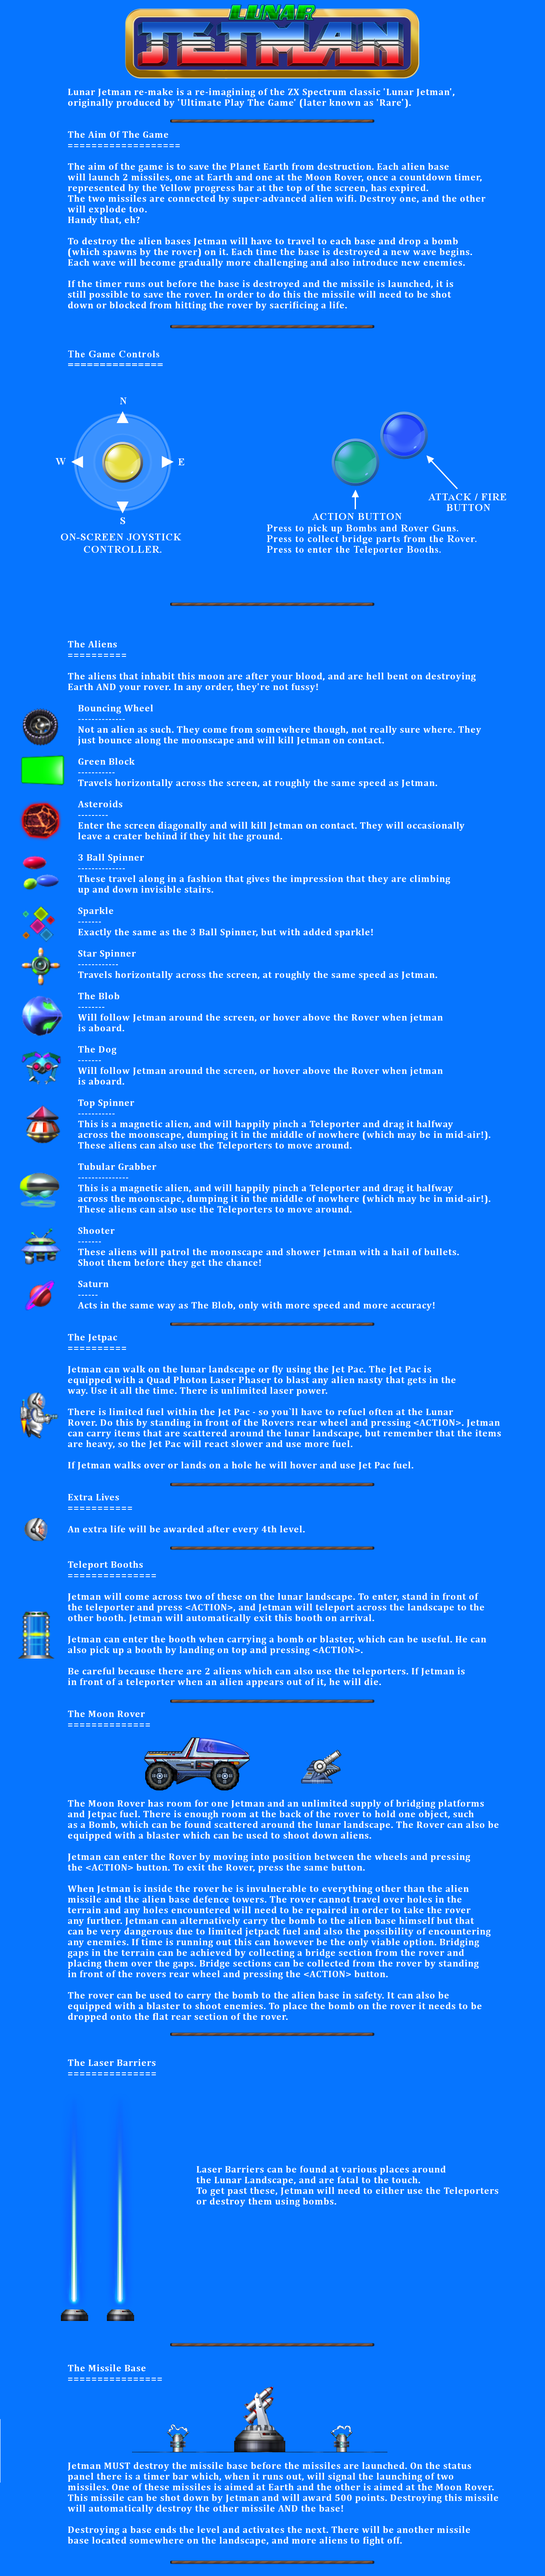
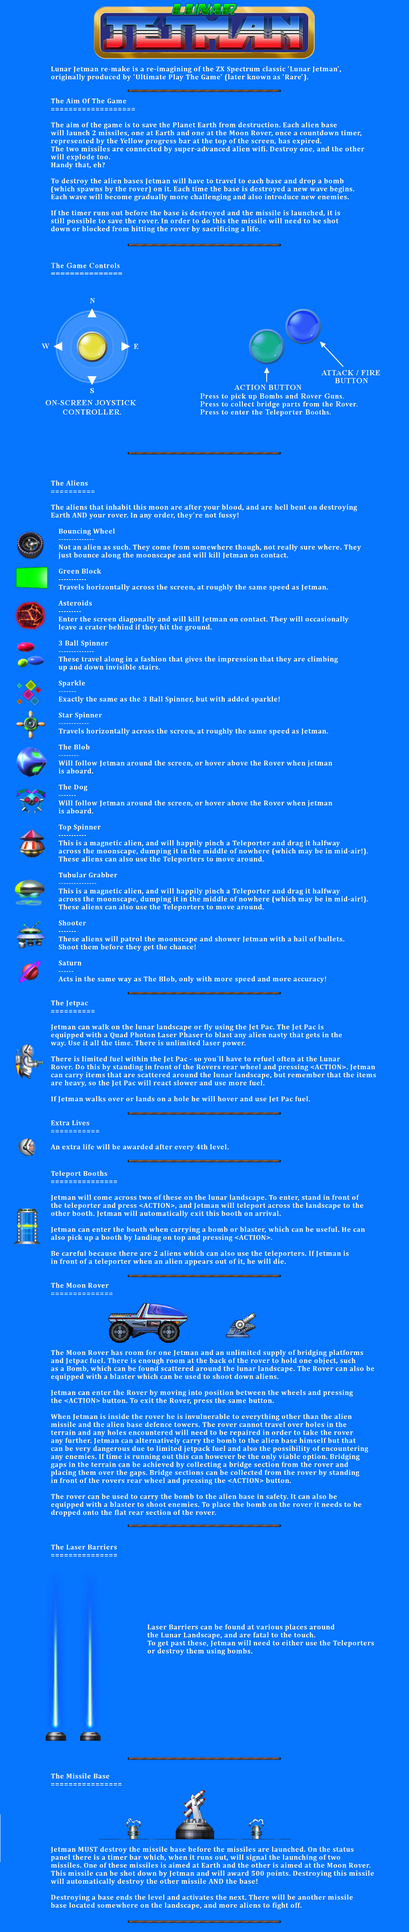
HUD Updates

diff --git a/core/src/com/richikin/jetman/screens/OptionsPage.java b/core/src/com/richikin/jetman/screens/OptionsPage.java
@@ -94,33 +94,33 @@ public class OptionsPage implements IUIPage
 //            showActors(true);
 //        }
 
-//        if (justFinishedPrivacyPanel)
-//        {
-//            if (privacyPanel != null)
-//            {
-//                privacyPanel.dispose();
-//            }
-//
-//            justFinishedPrivacyPanel = false;
-//            privacyPanel = null;
-//            activePanel = ScreenID._SETTINGS_SCREEN;
-//
-//            showActors(true);
-//        }
+        if (justFinishedPrivacyPanel)
+        {
+            if (privacyPanel != null)
+            {
+                privacyPanel.dispose();
+            }
 
-//        if (justFinishedStoryPanel)
-//        {
-//            if (storyPanel != null)
-//            {
-//                storyPanel.dispose();
-//            }
-//
-//            justFinishedStoryPanel = false;
-//            storyPanel = null;
-//            activePanel = ScreenID._SETTINGS_SCREEN;
-//
-//            showActors(true);
-//        }
+            justFinishedPrivacyPanel = false;
+            privacyPanel = null;
+            activePanel = ScreenID._SETTINGS_SCREEN;
+
+            showActors(true);
+        }
+
+        if (justFinishedStoryPanel)
+        {
+            if (storyPanel != null)
+            {
+                storyPanel.dispose();
+            }
+
+            justFinishedStoryPanel = false;
+            storyPanel = null;
+            activePanel = ScreenID._SETTINGS_SCREEN;
+
+            showActors(true);
+        }
 
 //        if (justFinishedTestPanel)
 //        {
@@ -155,8 +155,8 @@ public class OptionsPage implements IUIPage
         switch (activePanel)
         {
 //            case _STATS_SCREEN:             statsPanel.draw();      break;
-//            case _PRIVACY_POLICY_SCREEN:    privacyPanel.draw();    break;
-//            case _INSTRUCTIONS_SCREEN:      storyPanel.draw();      break;
+            case _PRIVACY_POLICY_SCREEN:    privacyPanel.draw();    break;
+            case _INSTRUCTIONS_SCREEN:      storyPanel.draw();      break;
 //            case _TEST_PANEL:               testPanel.draw();       break;
 
             default:
@@ -269,7 +269,8 @@ public class OptionsPage implements IUIPage
             foreground = null;
             skin = null;
 //            statsPanel = null;
-//            privacyPanel = null;
+            privacyPanel = null;
+            storyPanel = null;
 //            testPanel = null;
 
             App.optionsPageActive = false;
@@ -465,19 +466,17 @@ public class OptionsPage implements IUIPage
             {
                 public void clicked(InputEvent event, float x, float y)
                 {
-//                    if (privacyPanel == null)
-//                    {
-//                        showActors(false);
-//                        justFinishedPrivacyPanel = false;
-//                        activePanel = ScreenID._PRIVACY_POLICY_SCREEN;
-//
-//                        privacyPanel = new PrivacyPolicyPanel();
-//                        privacyPanel.xOffset = 0;
-//                        privacyPanel.yOffset = 0;
-//                        privacyPanel.open();
-//
-//                        buttonExit.setVisible(true);
-//                    }
+                    if (privacyPanel == null)
+                    {
+                        showActors(false);
+                        justFinishedPrivacyPanel = false;
+                        activePanel = ScreenID._PRIVACY_POLICY_SCREEN;
+
+                        privacyPanel = new PrivacyPolicyPanel();
+                        privacyPanel.open();
+
+                        buttonExit.setVisible(true);
+                    }
                 }
             });
         }
@@ -493,19 +492,17 @@ public class OptionsPage implements IUIPage
               {
                   public void clicked(InputEvent event, float x, float y)
                   {
-//                      if (storyPanel == null)
-//                      {
-//                          showActors(false);
-//                          justFinishedStoryPanel = false;
-//                          activePanel = ScreenID._INSTRUCTIONS_SCREEN;
-//
-//                          storyPanel = new InstructionsPanel();
-//                          storyPanel.xOffset = 0;
-//                          storyPanel.yOffset = 0;
-//                          storyPanel.open();
-//
-//                          buttonExit.setVisible(true);
-//                      }
+                      if (storyPanel == null)
+                      {
+                          showActors(false);
+                          justFinishedStoryPanel = false;
+                          activePanel = ScreenID._INSTRUCTIONS_SCREEN;
+
+                          storyPanel = new InstructionsPanel();
+                          storyPanel.open();
+
+                          buttonExit.setVisible(true);
+                      }
                   }
               });
         }

diff --git a/core/src/com/richikin/jetman/ui/InstructionsPanel.java b/core/src/com/richikin/jetman/ui/InstructionsPanel.java
@@ -1,5 +1,71 @@
 package com.richikin.jetman.ui;
 
-public class InstructionsPanel
+import com.badlogic.gdx.Gdx;
+import com.badlogic.gdx.graphics.Texture;
+import com.badlogic.gdx.graphics.g2d.TextureRegion;
+import com.badlogic.gdx.scenes.scene2d.actions.Actions;
+import com.badlogic.gdx.scenes.scene2d.ui.Image;
+import com.badlogic.gdx.scenes.scene2d.ui.ScrollPane;
+import com.badlogic.gdx.scenes.scene2d.ui.Skin;
+import com.badlogic.gdx.scenes.scene2d.ui.Table;
+import com.richikin.jetman.core.App;
+import com.richikin.jetman.graphics.Gfx;
+import com.richikin.utilslib.AppSystem;
+import com.richikin.utilslib.ui.DefaultPanel;
+
+public class InstructionsPanel extends DefaultPanel
 {
+    private static final String _FILE_NAME = "data/howto.png";
+
+    public InstructionsPanel()
+    {
+        super();
+    }
+
+    @Override
+    public void setup()
+    {
+        skin = new Skin(Gdx.files.internal("data/uiskin.json"));
+
+        buffer = new Table();
+        buffer.top().left();
+        buffer.pad(10, 10, 10, 10);
+        buffer.setDebug(false);
+
+        Texture sky   = App.assets.loadSingleAsset(_FILE_NAME, Texture.class);
+        Image   image = new Image(new TextureRegion(sky));
+        buffer.setBackground(image.getDrawable());
+
+        populateTable();
+
+        scrollPane = new ScrollPane(buffer, skin);
+        scrollPane.setScrollingDisabled(true, false);
+        scrollPane.setFadeScrollBars(false);
+        scrollPane.setWidth(Gfx._HUD_WIDTH - 400);
+        scrollPane.setHeight((float) Gfx._HUD_HEIGHT - 200);
+        scrollPane.setPosition(AppSystem.hudOriginX + 200, AppSystem.hudOriginY + 100);
+
+        App.stage.addActor(scrollPane);
+    }
+
+    @Override
+    public boolean update()
+    {
+        return false;
+    }
+
+    /**
+     * Releases all resources of this object.
+     */
+    @Override
+    public void dispose()
+    {
+        buffer.clear();
+        buffer.addAction(Actions.removeActor());
+
+        scrollPane.clear();
+        scrollPane.addAction(Actions.removeActor());
+
+        skin = null;
+    }
 }

diff --git a/core/src/com/richikin/jetman/ui/PrivacyPolicyPanel.java b/core/src/com/richikin/jetman/ui/PrivacyPolicyPanel.java
@@ -26,8 +26,7 @@ import java.io.IOException;
 
 public class PrivacyPolicyPanel extends DefaultPanel implements IUserInterfacePanel
 {
-    private final String _FILE_NAME = "documents/privacy_policy.txt";
-//    private final String _BACKGROUND    = "data/empty_screen.png";
+    private static final String _FILE_NAME = "documents/privacy_policy.txt";
 
     private Image title;
 
@@ -49,18 +48,15 @@ public class PrivacyPolicyPanel extends DefaultPanel implements IUserInterfacePa
         Image   image = new Image(new TextureRegion(sky));
         buffer.setBackground(image.getDrawable());
 
-//        texture = app.assets.loadSingleAsset(_BACKGROUND, Texture.class);
-
         createTitle();
-
         populateTable();
 
         scrollPane = new ScrollPane(buffer, skin);
         scrollPane.setScrollingDisabled(true, false);
         scrollPane.setFadeScrollBars(false);
-        scrollPane.setWidth(Gfx._VIEW_WIDTH - 80);
-        scrollPane.setHeight((float) (Gfx._VIEW_HEIGHT / 8) * 6);
-        scrollPane.setPosition(AppSystem.hudOriginX + 40, AppSystem.hudOriginY + 40);
+        scrollPane.setWidth(Gfx._HUD_WIDTH - 400);
+        scrollPane.setHeight((float) Gfx._HUD_HEIGHT - 200);
+        scrollPane.setPosition(AppSystem.hudOriginX + 200, AppSystem.hudOriginY + 100);
 
         App.stage.addActor(scrollPane);
         App.stage.addActor(title);
@@ -118,15 +114,12 @@ public class PrivacyPolicyPanel extends DefaultPanel implements IUserInterfacePa
         buffer.clear();
         scrollPane.clear();
 
-//        app.assets.unloadAsset(_BACKGROUND);
-
         buffer.addAction(Actions.removeActor());
         scrollPane.addAction(Actions.removeActor());
         title.addAction(Actions.removeActor());
 
         title = null;
         skin  = null;
-//        texture = null;
     }
 
     private void createTitle()

diff --git a/core/src/com/richikin/jetman/config/Settings.java b/core/src/com/richikin/jetman/config/Settings.java
@@ -19,10 +19,7 @@ public class Settings implements ISettings
 
     //
     // Development options
-    public static final String _DEV_MODE            = "dev mode";           // Enables/Disables DEV Mode
-    public static final String _GOD_MODE            = "god mode";           //
     public static final String _USING_ASHLEY_ECS    = "ashley ecs";         // Enables use of Ashley Entity Component System
-    public static final String _DISABLE_ENEMIES     = "disable enemies";    // Disables all enemy entities
     public static final String _SCROLL_DEMO         = "scroll demo";        // Enables Game Scroll Demo mode
     public static final String _SPRITE_BOXES        = "sprite boxes";       // Shows sprite AABB Boxes
     public static final String _TILE_BOXES          = "tile boxes";         // Shows game tile AABB Boxes
@@ -121,9 +118,6 @@ public class Settings implements ISettings
             prefs.putBoolean(_DEFAULT_OFF, _PREF_FALSE_DEFAULT);
 
             // ---------- Development Flags ----------
-            prefs.putBoolean(_DEV_MODE, Developer.isDevMode());
-            prefs.putBoolean(_GOD_MODE, _PREF_FALSE_DEFAULT);
-            prefs.putBoolean(_DISABLE_ENEMIES, _PREF_FALSE_DEFAULT);
             prefs.putBoolean(_DISABLE_MENU_SCREEN, _PREF_FALSE_DEFAULT);
             prefs.putBoolean(_SCROLL_DEMO, _PREF_FALSE_DEFAULT);
             prefs.putBoolean(_SPRITE_BOXES, _PREF_FALSE_DEFAULT);

diff --git a/core/src/com/richikin/utilslib/ui/DefaultPanel.java b/core/src/com/richikin/utilslib/ui/DefaultPanel.java
@@ -7,6 +7,7 @@ import com.badlogic.gdx.scenes.scene2d.ui.Skin;
 import com.badlogic.gdx.scenes.scene2d.ui.Table;
 import com.badlogic.gdx.utils.Disposable;
 import com.richikin.enumslib.StateID;
+import com.richikin.jetman.core.App;
 import com.richikin.utilslib.logging.StateManager;
 import com.richikin.utilslib.maths.SimpleVec2;
 import com.richikin.utilslib.maths.SimpleVec2F;
@@ -58,11 +59,11 @@ public abstract class DefaultPanel implements IDefaultUIPanel, Disposable
     }
 
     @Override
-    public void draw(SpriteBatch spriteBatch)
+    public void draw()
     {
         if (isActive && (textureRegion != null))
         {
-            spriteBatch.draw(textureRegion, position.x, position.y, panelWidth, panelHeight);
+            App.spriteBatch.draw(textureRegion, position.x, position.y, panelWidth, panelHeight);
         }
     }
 

diff --git a/core/src/com/richikin/jetman/ui/ZoomPanel.java b/core/src/com/richikin/jetman/ui/ZoomPanel.java
@@ -4,6 +4,7 @@ package com.richikin.jetman.ui;
 import com.badlogic.gdx.graphics.g2d.SpriteBatch;
 import com.badlogic.gdx.graphics.g2d.TextureRegion;
 import com.richikin.enumslib.StateID;
+import com.richikin.jetman.core.App;
 import com.richikin.jetman.graphics.Gfx;
 import com.richikin.utilslib.graphics.camera.Zoom;
 import com.richikin.utilslib.logging.StopWatch;
@@ -169,11 +170,11 @@ public class ZoomPanel extends DefaultPanel implements IUserInterfacePanel
     }
 
     @Override
-    public void draw(SpriteBatch spriteBatch)
+    public void draw()
     {
         if (!isFinished)
         {
-            spriteBatch.draw
+            App.spriteBatch.draw
                 (
                     textureRegion,
                     getPosition().x,

diff --git a/core/src/com/richikin/jetman/core/App.java b/core/src/com/richikin/jetman/core/App.java
@@ -165,7 +165,7 @@ public abstract class App extends LibApp
     {
         int lives;
 
-        if (Developer.isDevMode() && settings.isEnabled(Settings._GOD_MODE))
+        if (Developer.isDevMode() && Developer.isGodMode())
         {
             lives = GameConstants._MAX_LIVES;
         }

diff --git a/core/src/com/richikin/jetman/ui/MessageManager.java b/core/src/com/richikin/jetman/ui/MessageManager.java
@@ -50,7 +50,7 @@ public class MessageManager
         {
             if (messages.get(i).enabled)
             {
-                messages.get(i).panel.draw(App.spriteBatch);
+                messages.get(i).panel.draw();
             }
         }
     }

diff --git a/core/src/com/richikin/jetman/ui/PanelManager.java b/core/src/com/richikin/jetman/ui/PanelManager.java
@@ -46,7 +46,7 @@ public class PanelManager
     {
         if (currentPanel != null)
         {
-            currentPanel.draw(App.spriteBatch);
+            currentPanel.draw();
         }
     }
 

diff --git a/core/src/com/richikin/utilslib/ui/IDefaultUIPanel.java b/core/src/com/richikin/utilslib/ui/IDefaultUIPanel.java
@@ -21,7 +21,7 @@ public interface IDefaultUIPanel
 
     void setup();
 
-    void draw(SpriteBatch spriteBatch);
+    void draw();
 
     void activate();
 
